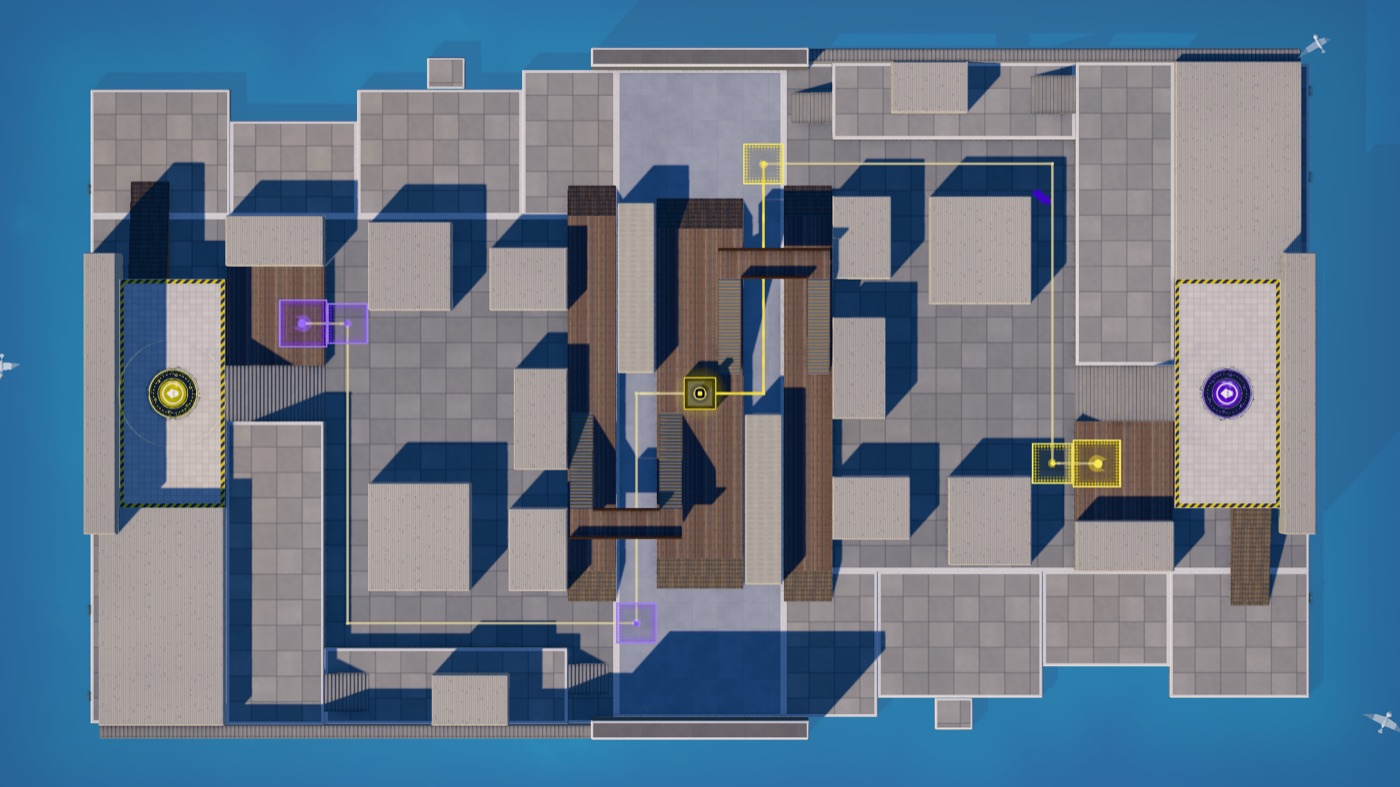
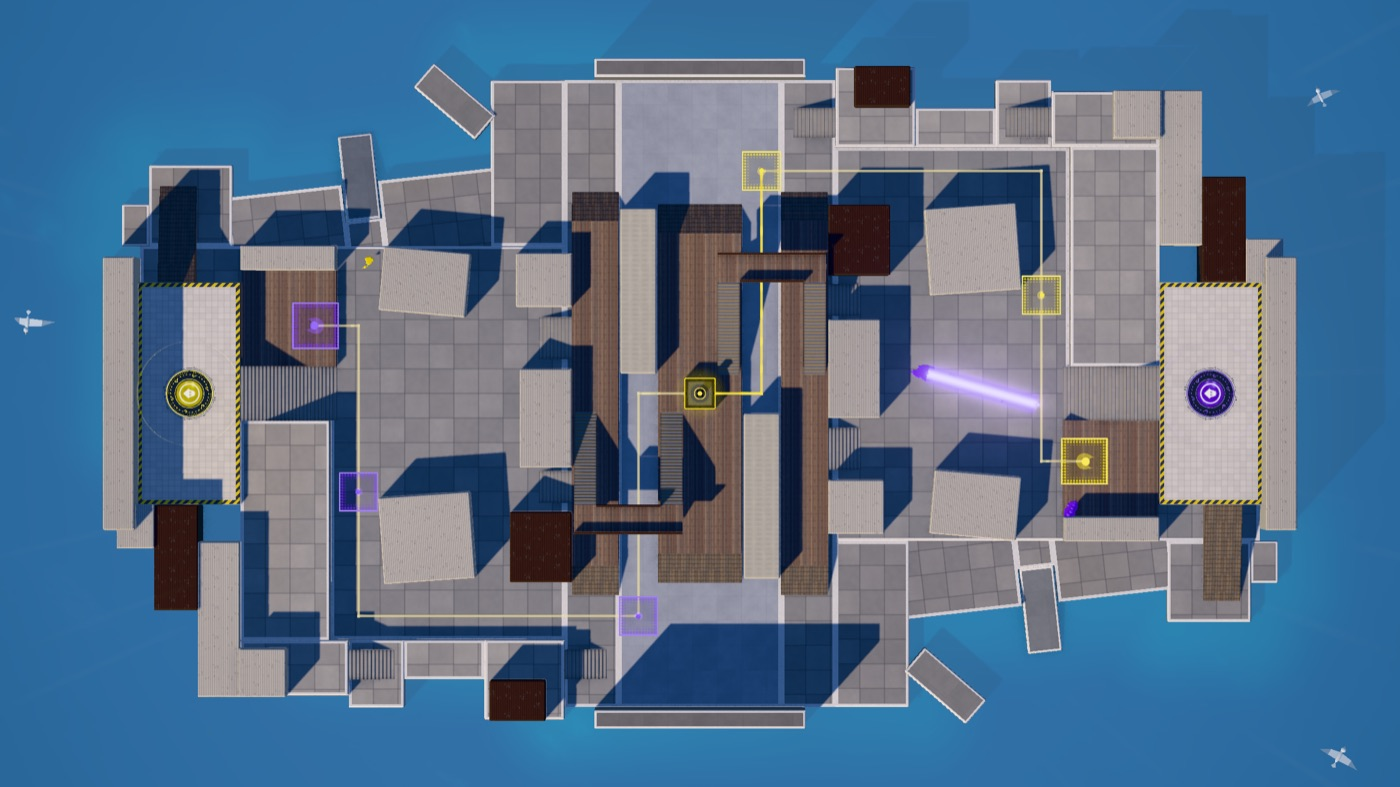
Calamari County: reshape the block-out — harbour basin inlet with an angled quay edge, slipway and breakwater stub; stepped hillside terraces with houses on them; hill houses cutting the corner behind the spawn; buildings of varied size, some turned off the grid; a wider square

diff --git a/src/world/stages/calamari/layout.js b/src/world/stages/calamari/layout.js
@@ -2,29 +2,43 @@
 //   layout.js    level geometry, zones, tower track, env (this file)   props.js    prop pack + placements
 //   surfaces.js  stage surface materials (texlib)                       murals.js   stage decals / signage
 //   backdrop.js  the far scenery (snowy hills, the coves, the headlands, the village beyond)
-import { PATTERN, B, R } from '../../mapkit.js';
+import { PATTERN, B, R, O } from '../../mapkit.js';
 import { buildBackdrop } from './backdrop.js';
 
 // ------------------------------------------------------------------------------------------------------------
 // Calamari County — the Squid Sisters' home village, at the far end of the line out of Inkopolis: a snowbound fishing
-// village on a neck of land between two coves, the single-track-each-way railway running through the middle of it
-// between two headland tunnels. Winter: snow on every roof, rime on the quays, steam off the bath house.
+// village on a neck of land between two coves, the railway running through the middle of it between two headland
+// tunnels. Winter: snow on every roof, rime on the quays, steam off the bath house.
 // Alpha at −Z (the half list), Bravo is the 180° twin. Plan (Alpha's half; Alpha looks toward +Z, so its left is +X):
 //   • mid, the RAILWAY CUT (|z| < 6.6, full width): Calamari County Station's island platform (1.0) under a long
 //     timber canopy between the two tracks (trackbeds at 0), a local railcar waiting at the platform on each track
 //     (Alpha's at the +x end, Bravo's at the −x end: 3.4 m of cover, roofs off-limits), a covered timber footbridge on
 //     each side (deck 4.3: the high ground over mid) from the side platform over its track onto the island platform, a
-//     level crossing at each end (|x| 15.5 … 19.5) and the tunnel portals capping the cut (|x| 25.5)
-//   • station side (z −10.4 … −6.6): the side platform (1.0) with the station building behind it, ramps at both ends
-//   • right lane (−X) HILLSIDE: the crossing road (0) up past the bath house, the snowy hillside terraces above it
-//     (T1 1.3, stone steps from the crossing; T2 2.6 by the spawn, overlooking the square)
-//   • mid lane: the station forecourt → the village square (post box, the side zone) → the Fishermen's Co-op
-//   • left lane (+X) HARBOUR: the stone quay along the cove, boats and fish boxes, the general store's back
+//     level crossing at each end (|x| 15.5 … 20) and the tunnel portals capping the cut (|x| 25.5)
+//   • station side (z −11 … −6.6): the side platform (1.0) with the station building behind it, ramps at both ends
+//   • right lane (−X) HILLSIDE: the crossing road (0) up past the bath house, the hillside terraces stepping up beside
+//     it (T1 1.3 with the Cuttlefish cottage; T2 2.6 by the co-op, overlooking the square), houses climbing the hill
+//   • mid lane: the station forecourt → the village square (post box, bus shelter, the side zone) → the co-op stair
+//   • left lane (+X) HARBOUR: the basin quay along the fishing-boat basin that cuts into the village (its edge at an
+//     angle, a slipway, a timber jetty), the north quay with the breakwater, the co-op's quay behind
 //   • spawn: the covered upper deck of the Fishermen's Co-op warehouse (3.4): grand stair to the square, a timber ramp
-//     down to the quay, drops onto T2 (0.8) and the loading dock (1.0)
-// Heights: 0 streets / quay / trackbeds · 1.0 platforms, loading dock · 1.3 T1 · 2.6 T2 · 3.4 spawn, railcar tops
-// (off-limits) · 4.3 footbridge decks.
+//     down to the co-op quay, drops onto T2 (0.8) and the loading dock (1.0)
+// The village grew: buildings of different sizes, several turned a few degrees off the street grid, the lanes between
+// them bending and narrowing; the outline follows the coast (the basin, the breakwater, the stepped co-op quay) and the
+// hill (terraces stepping in and out, the hill houses cutting the corner behind the spawn).
+// Heights: 0 streets / quays / trackbeds · −0.1 the basin quay (a kerb down from the street) · 1.0 platforms, loading
+// dock · 1.3 T1 · 2.6 T2 · 3.4 spawn, railcar tops (off-limits) · 4.3 footbridge decks.
 // ------------------------------------------------------------------------------------------------------------
+
+// an oriented box with one long side along A → B (world x, z), reaching `depth` to the left (side 1) or right (−1) of it
+function edgeBox(A, Bp, depth, y0, y1, side, o) {
+  const dx = Bp[0] - A[0], dz = Bp[1] - A[1], L = Math.hypot(dx, dz), a = Math.atan2(dx, dz);
+  const lx = [dz / L, -dx / L];   // the box's local x axis (level.js obox: (cos a, −sin a))
+  const cx = (A[0] + Bp[0]) / 2 + side * lx[0] * depth / 2, cz = (A[1] + Bp[1]) / 2 + side * lx[1] * depth / 2;
+  return O(+cx.toFixed(4), +cz.toFixed(4), depth, L, y0, y1, +((a * 180) / Math.PI).toFixed(4), o);
+}
+// a box of footprint w × d centred at (cx, cz), turned deg (building blocks off the street grid)
+const turned = (cx, cz, w, d, y0, y1, deg, o) => O(cx, cz, w, d, y0, y1, deg, o);
 
 // ---- the plan (shared with props.js: dressing is placed from the same numbers)
 export const P = {
@@ -33,44 +47,61 @@ export const P = {
   cutX: 25.5,                   // the trackbed runs |x| < 25.5, the tunnel portals beyond
   island: { x: 13, z: 3.4, y: 1.0 },
   side: { x0: -14, x1: 14, z0: -10.4, z1: -6.6, y: 1.0 },
+  strip: -11,                   // the station strip (z −11 … −6.6) runs the full width at street level
   crossing: [-20, -15.5],       // Alpha's level crossing + hillside road (x); Bravo's is the mirror (x 15.5 … 20)
   // Alpha's railcar on Alpha's track (x 1.6 … 15); Bravo's is its mirror
   train: { x0: 1.6, x1: 15, z0: -6.45, z1: -3.55, h: 3.4 },
   // Alpha's footbridge (hillside side): deck x −11.4 … −9.0, stairs x −9.0 → −1.5 (side platform z −9.3, island z −2.3)
   bridge: { x0: -11.4, x1: -9.0, y: 4.3, t: 0.4, z0: -10.2, z1: -1.4, foot: -1.5, stairW: 1.8, s1: -9.3, s2: -2.3 },
-  // village
-  station: [-6, 2, -14.6, -10.4],            // Alpha's station building (x0, x1, z0, z1)
-  platHouse: [-15.5, -9, -15, -10.4],        // the house behind the platform's west end
-  bath: [-15.5, -7, -26, -18],               // bath house
-  store: [6.5, 13.5, -26, -19.5],            // general store (front on the square) / fish shop (front on the quay)
-  post: [6.5, 11.5, -16.5, -10.4],           // post office
-  square: [-7, 6.5, -29.5, -14.6],           // the open plaza: forecourt, square, back street
-  backSt: [-29.5, -26],                      // the back street (z) from the hillside road to the quay
-  T1: { x0: -26, x1: -20, z0: -29.5, z1: -10.4, y: 1.3 },
-  T2: { x0: -26, x1: -2.2, z0: -37.2, z1: -29.5, y: 2.6 },
+  // village (buildings: [cx, cz, w (x), d (z), deg, height])
+  station: [-6, 2, -14.6, -10.4],                 // station building (x0, x1, z0, z1)
+  houseA: [-12.45, -12.9, 5.7, 5.0, 0, 3.5],      // the house behind the platform's west end
+  bath: [-11.7, -22.1, 7.0, 7.4, 4, 3.6],         // bath house
+  store: [9.05, -22.3, 5.2, 7.0, -5, 3.4],        // general store (front on the square) / fish shop (back on the quay)
+  post: [7, 11.4, -14.9, -10.4],                  // post office (x0, x1, z0, z1)
+  square: [-7.7, 6.2, -26, -15],                  // the square (x0, x1, z0, z1)
+  backSt: [-30, -26],                             // the back street (z) from the hillside road to the quay
+  T1: [[-26.5, -20, -17.5, -11], [-23.2, -20, -24, -17.5], [-25.5, -20, -28.5, -24]],   // T1 (1.3) pieces (x0, x1, z0, z1)
+  T2: [[-20, -2.2, -37.2, -30], [-24.5, -20, -37.2, -28.5]],                            // T2 (2.6)
+  y1: 1.3, y2: 2.6,
+  cottage: [-26.5, -23.2, -17, -12.5],            // the Cuttlefish cottage on T1
+  t2house: [-24.5, -20.6, -37.2, -33.4],          // a house on T2's west end
   // Fishermen's Co-op
   deck: { x0: -9, x1: 9, z0: -45.5, z1: -37.2, y: 3.4 },
   pad: [0, 3.4, -41.3],
   dock: { x0: 2.2, x1: 10, z0: -37.2, z1: -29.5, y: 1.0 },
-  netStore: [10, 14, -37.2, -29.5],
-  // quay edge (x) by z band (Alpha's half): the cove side
-  quay: [[-48, -37, 24], [-37, -27, 21.5], [-27, -14, 24], [-14, -6.6, 25.5]],
+  netStore: [10, 12, -37.2, -29.5],
+  // harbour (Alpha's cove side): the basin quay's water edge runs A → B at an angle; the slipway cuts it
+  kerb: 12,                                       // the village street ends at x 12; the basin quay is 0.1 lower
+  basinEdge: [[18.4, -16.4], [15.9, -38.6]],
+  slip: { t0: 0.44, t1: 0.575 },                  // the slipway's gap along the basin edge (fractions of A → B)
+  northQuay: [12, 25.5, -17, -11],
+  breakwater: [[22.6, -16.6], [26.9, -21.6]],
+  southQuay: [[12, 18.6, -44.8, -38], [12, 15.4, -47, -44.8]],
 };
+// hillside road centre (Alpha) and the back street centre: the tower's corners
+P.roadX = (P.crossing[0] + P.crossing[1]) / 2 - 0.35;
+P.backZ = (P.backSt[0] + P.backSt[1]) / 2 + 0.25;
 
 const K = {
   snow: '#dfe3e8', ballast: '#b9bcc0', platform: '#8a7866', timber: '#6d5543', stone: '#b7b3ab', setts: '#a9a6a0',
-  wall: '#e8e2d4', plaster: '#ece6d8', dark: '#4a3a2e', spawn: '#eae6de', train: '#d9d4c4', portal: '#8f8b84',
+  quay: '#a7a39c', wall: '#e8e2d4', plaster: '#ece6d8', dark: '#4a3a2e', spawn: '#eae6de', train: '#d9d4c4', portal: '#8f8b84',
+  cedar: '#5d4636',
 };
 const snow = (o = {}) => ({ color: K.snow, pattern: PATTERN.concrete, ...o });
 const setts = (o = {}) => ({ color: K.setts, pattern: PATTERN.pavers, ...o });
+const quay = (o = {}) => ({ color: K.quay, pattern: PATTERN.pavers, ...o });
 const timber = (o = {}) => ({ color: K.platform, pattern: PATTERN.planks, ...o });
 const bldg = (c, o = {}) => ({ color: c, pattern: PATTERN.weatherboard, roof: true, ...o });
 const stair = (o = {}) => ({ color: K.stone, pattern: PATTERN.stonestep, ...o });
 const SIDES = [[1, 0, 0], [-1, 0, 0], [0, 0, 1], [0, 0, -1]];
-const FL = -1.6;   // deck slabs reach down to the sea (the environment reads them as the stage's footprint)
+const FL = -1.6;   // ground slabs reach down to the sea (the environment reads their tops as the stage's footprint)
 
-const { island: I, side: S, train: TR, bridge: BR, T1, T2, deck: DK, dock: DO } = P;
+const { island: I, side: S, train: TR, bridge: BR, deck: DK, dock: DO } = P;
 const bridgeRun = (z) => R([BR.foot, 1.0, z], [BR.x1, BR.y, z], BR.stairW, { tag: 'bridge-stair', color: K.timber, pattern: PATTERN.treads });
+const bx = (r, y0, y1, o) => B(r[0], r[1], y0, y1, r[2], r[3], o);
+const bt = (b, y0, o) => turned(b[0], b[1], b[2], b[3], y0, y0 + b[5], b[4], o);
+const lerp2 = (a, b, t) => [a[0] + (b[0] - a[0]) * t, a[1] + (b[1] - a[1]) * t];
 
 const SINGLE = [
   // ================= the railway cut: snowy ballast the full width, the island platform between the tracks
@@ -78,53 +109,79 @@ const SINGLE = [
   B(-I.x, I.x, 0, I.y, -I.z, I.z, timber({ tag: 'island' })),
 ];
 
+// the basin quay (0.1 below the street, tucked under the village, the north quay and the co-op quay): its water edge
+// runs at an angle along the basin, broken by the slipway
+const [bA, bB] = P.basinEdge, sA = lerp2(bA, bB, P.slip.t0), sB = lerp2(bA, bB, P.slip.t1);
+const slipDir = (() => { const dx = bB[0] - bA[0], dz = bB[1] - bA[1], L = Math.hypot(dx, dz); return [-dz / L, dx / L]; })();   // outward (east, into the basin)
+const SLIP_D = 3.0;   // the slipway's notch reaches this far back into the quay
+const back = (p) => [p[0] - slipDir[0] * SLIP_D, p[1] - slipDir[1] * SLIP_D];
+const BASIN = [
+  edgeBox(bA, sA, 7.4, FL, -0.1, 1, quay({ tag: 'basin-quay' })),
+  edgeBox(sB, bB, 7.4, FL, -0.1, 1, quay({ tag: 'basin-quay' })),
+  // the slipway's head: the basin quay behind its notch; the ramp runs from there down into the water
+  edgeBox(back(sA), back(sB), 5.5, FL, -0.1, 1, quay({ tag: 'basin-quay' })),
+];
+const slipIn = back([(sA[0] + sB[0]) / 2, (sA[1] + sB[1]) / 2]);
+
 const HALF = [
-  // ================= ground (Alpha's half): the village land and the quay stepping along the cove
-  B(-26, 14, FL, 0, -48, -P.track[1], setts({ tag: 'village' })),
-  ...P.quay.map(([z0, z1, x]) => B(14, x, FL, 0, z0, z1, setts({ tag: 'quay', color: K.stone }))),
-  B(24, 26.5, FL, 0, -21.5, -18.5, setts({ tag: 'breakwater', color: K.stone })),
+  // ================= ground (Alpha's half)
+  B(-P.cutX, P.cutX, FL, 0, P.strip, -P.track[1], setts({ tag: 'station-strip' })),
+  B(P.crossing[0], P.kerb, FL, 0, -30, P.strip, setts({ tag: 'village' })),
+  B(-2.2, P.kerb, FL, 0, -45.5, -30, setts({ tag: 'coop-yard' })),
+  // harbour: north quay, the basin quay, the timber jetty, the breakwater, the co-op quay (stepped corner)
+  bx(P.northQuay, FL, 0, quay({ tag: 'north-quay' })),
+  ...BASIN,
+  R([slipIn[0] + slipDir[0] * 6.4, -1.25, slipIn[1] + slipDir[1] * 6.4], [slipIn[0], -0.1, slipIn[1]], 2.8,
+    { tag: 'slipway', color: '#8f918f', pattern: PATTERN.concrete }),
+  edgeBox(P.breakwater[0], P.breakwater[1], 2.6, FL, 0.25, 1, { tag: 'breakwater', color: '#9d9a93', pattern: PATTERN.concrete }),
+  ...P.southQuay.map((r) => bx(r, FL, 0, quay({ tag: 'coop-quay' }))),
   // tunnel portal capping the cut (the headland beyond is scenery)
   B(P.cutX, 27, FL, 7.5, -8.5, 8.5, { tag: 'portal', color: K.portal, pattern: PATTERN.concrete, roof: true }),
   // island platform end ramp (down between the tracks)
   R([I.x + 2.4, 0, 0], [I.x, I.y, 0], I.z * 2, timber({ tag: 'island-ramp', pattern: PATTERN.rampboard })),
 
-  // ================= station side: side platform, ramps at both ends, the railcar on Alpha's track
+  // ================= station side: side platform, ramps at both ends, steps up from the forecourt, the railcar
   B(S.x0, S.x1, 0, S.y, S.z0, S.z1, timber({ tag: 'side-platform' })),
   R([S.x1 + 2.4, 0, -8.5], [S.x1, S.y, -8.5], 3.8, timber({ tag: 'side-ramp', pattern: PATTERN.rampboard })),
   R([S.x0 - 2.4, 0, -8.5], [S.x0, S.y, -8.5], 3.8, timber({ tag: 'side-ramp', pattern: PATTERN.rampboard })),
+  R([-7.6, 0, -13.1], [-7.6, S.y, S.z0], 2.6, stair({ tag: 'platform-steps' })),
+  R([4.5, 0, -13.1], [4.5, S.y, S.z0], 3.4, stair({ tag: 'platform-steps' })),
   B(TR.x0, TR.x1, 0, TR.h, TR.z0, TR.z1, { tag: 'railcar', color: K.train, pattern: PATTERN.hullpaint, roof: true, noPaint: SIDES }),
 
   // ================= Alpha's footbridge: stair up from the side platform, deck over the track, stair down to the island
   bridgeRun(BR.s1),
   bridgeRun(BR.s2),
   B(BR.x0, BR.x1, BR.y - BR.t, BR.y, BR.z0, BR.z1, timber({ tag: 'bridge-deck' })),
-  B(BR.x0, BR.x0 + 0.2, BR.y, BR.y + 0.95, BR.z0, BR.z1, bldg(K.timber, { tag: 'bridge-wall', roof: false })),
-  B(BR.x1 - 0.2, BR.x1, BR.y, BR.y + 0.95, BR.s1 + BR.stairW / 2, BR.s2 - BR.stairW / 2, bldg(K.timber, { tag: 'bridge-wall', roof: false })),
+  B(BR.x0, BR.x0 + 0.2, BR.y, BR.y + 0.95, BR.z0, BR.z1, bldg(K.timber, { tag: 'bridge-wall', roof: false, noNav: true })),
+  B(BR.x1 - 0.2, BR.x1, BR.y, BR.y + 0.95, BR.s1 + BR.stairW / 2, BR.s2 - BR.stairW / 2, bldg(K.timber, { tag: 'bridge-wall', roof: false, noNav: true })),
 
-  // ================= village buildings (tops off-limits)
+  // ================= village buildings (tops off-limits), some off the street grid
   B(P.station[0], P.station[1], 0, 3.2, P.station[2], P.station[3], bldg(K.wall, { tag: 'station' })),
-  B(P.platHouse[0], P.platHouse[1], 0, 3.4, P.platHouse[2], P.platHouse[3], bldg(K.plaster, { tag: 'house' })),
-  B(P.bath[0], P.bath[1], 0, 3.6, P.bath[2], P.bath[3], bldg(K.plaster, { tag: 'bathhouse' })),
-  B(P.store[0], P.store[1], 0, 3.4, P.store[2], P.store[3], bldg(K.wall, { tag: 'store' })),
+  bt(P.houseA, 0, bldg(K.cedar, { tag: 'house-a' })),
+  bt(P.bath, 0, bldg(K.plaster, { tag: 'bathhouse' })),
+  bt(P.store, 0, bldg(K.wall, { tag: 'store' })),
   B(P.post[0], P.post[1], 0, 3.0, P.post[2], P.post[3], bldg(K.plaster, { tag: 'post-office' })),
 
-  // ================= hillside: T1 (1.3) along the crossing road, T2 (2.6) by the co-op, their steps, the hill wall
-  B(T1.x0, T1.x1, 0, T1.y, T1.z0, T1.z1, setts({ tag: 'T1', color: K.stone })),
-  B(T2.x0, T2.x1, 0, T2.y, T2.z0, T2.z1, setts({ tag: 'T2', color: K.stone })),
-  R([-22.5, 0, -7.2], [-22.5, T1.y, T1.z1], 2.4, stair({ tag: 'T1-steps' })),
-  R([-23.5, T1.y, -26], [-23.5, T2.y, T2.z1], 3, stair({ tag: 'T2-steps' })),
-  B(-26, -22, T1.y, 4.6, -21, -15, bldg(K.plaster, { tag: 'cottage' })),
-  B(-27, -26, 0, 4.4, -47, -8.5, bldg(K.stone, { tag: 'hill-wall', pattern: PATTERN.stonestep })),
+  // ================= hillside: T1 (1.3) stepping along the road, T2 (2.6) by the co-op, their steps, the houses on them
+  ...P.T1.map((r) => bx(r, FL, P.y1, setts({ tag: 'T1', color: K.stone }))),
+  ...P.T2.map((r) => bx(r, FL, P.y2, setts({ tag: 'T2', color: K.stone }))),
+  R([-22, 0, -7.6], [-22, P.y1, P.strip], 2.4, stair({ tag: 'T1-steps' })),
+  R([-22, P.y1, -24.8], [-22, P.y2, -28.5], 2.4, stair({ tag: 'T2-steps' })),
+  bx(P.cottage, P.y1, 4.5, bldg(K.cedar, { tag: 'cottage' })),
+  bx(P.t2house, P.y2, 5.9, bldg(K.plaster, { tag: 't2-house' })),
+  // hill houses stepping up behind T2 and the spawn (out of play; they cut the corner behind the co-op)
+  B(-24.5, -12, FL, 5.4, -40.5, -37.2, bldg(K.plaster, { tag: 'hill-house' })),
+  B(-17.5, -9, FL, 5.8, -44, -40.5, bldg(K.cedar, { tag: 'hill-house' })),
+  B(-12.5, -9, FL, 6.2, -47, -44, bldg(K.plaster, { tag: 'hill-house' })),
 
   // ================= the Fishermen's Co-op: warehouse behind, spawn deck, grand stair, loading dock, quay ramp
-  B(-11, 11, 0, 8, -48, -45.5, bldg(K.wall, { tag: 'coop' })),
-  B(DK.x0, DK.x1, 0, DK.y - 0.2, DK.z0, DK.z1, { tag: 'spawn-body', color: K.timber, pattern: PATTERN.weatherboard }),
+  B(-11, 11, FL, 8, -48, -45.5, bldg(K.wall, { tag: 'coop' })),
+  B(DK.x0, DK.x1, FL, DK.y - 0.2, DK.z0 - 0.1, DK.z1, { tag: 'spawn-body', color: K.timber, pattern: PATTERN.weatherboard }),
   B(DK.x0, DK.x1, DK.y - 0.2, DK.y, DK.z0, DK.z1, { tag: 'spawn', color: K.spawn, pattern: PATTERN.spawn }),
-  R([0, 0, P.backSt[0]], [0, DK.y, DK.z1], 4.4, stair({ tag: 'grand-stair' })),
+  R([0, 0, -29.5], [0, DK.y, DK.z1], 4.4, stair({ tag: 'grand-stair' })),
   B(DO.x0, DO.x1, 0, DO.y, DO.z0, DO.z1, timber({ tag: 'dock' })),
   B(P.netStore[0], P.netStore[1], 0, 3.2, P.netStore[2], P.netStore[3], bldg(K.wall, { tag: 'net-store' })),
-  R([16.7, 0, -43.3], [DK.x1, DK.y, -43.3], 3.0, timber({ tag: 'quay-ramp', pattern: PATTERN.rampboard })),
-  B(-26, DK.x0, 0, 5.2, -47, DK.z1, bldg(K.plaster, { tag: 'hill-houses' })),
+  R([16.9, 0, -42.4], [DK.x1, DK.y, -42.4], 3.0, timber({ tag: 'quay-ramp', pattern: PATTERN.rampboard })),
 ];
 
 // ---- Zone Control: the centre = the middle of the island platform and both trackbeds beside it; the side zone = the
@@ -137,8 +194,8 @@ const ZONES = {
 
 // ---- Tower Command: "the tower rides the railway" (drawn on Bravo's half, Alpha's goal): off the island platform onto
 // Bravo's track, along the rails to the level crossing (checkpoint 1), up the hillside road, back along the back street
-// past the square (checkpoint 2), up onto the co-op's loading dock
-const TX = -(P.crossing[0] + P.crossing[1]) / 2 + 0.35, TZ = -(P.backSt[0] + P.backSt[1]) / 2, GX = -5.5;
+// past the square (checkpoint 2 at its corner), up onto the co-op's loading dock
+const TX = -P.roadX, TZ = -P.backZ, GX = -5.5;
 const TOWER = {
   path: [[0, I.y, 0], [0, 5.0], [TX, 5.0], [TX, TZ], [GX, TZ], [GX, 31.2]],
   checkpoints: [[TX, 5.0], [8, TZ]],
@@ -147,7 +204,7 @@ const TOWER = {
 
 const CALAMARI = {
   id: 'calamari',
-  bounds: { minX: -27, maxX: 27, minZ: -48, maxZ: 48 },
+  bounds: { minX: -28, maxX: 28, minZ: -48, maxZ: 48 },
   spawnPads: [P.pad, [-P.pad[0], P.pad[1], -P.pad[2]]],
   spawnBarrier: 4.2,
   env: {
